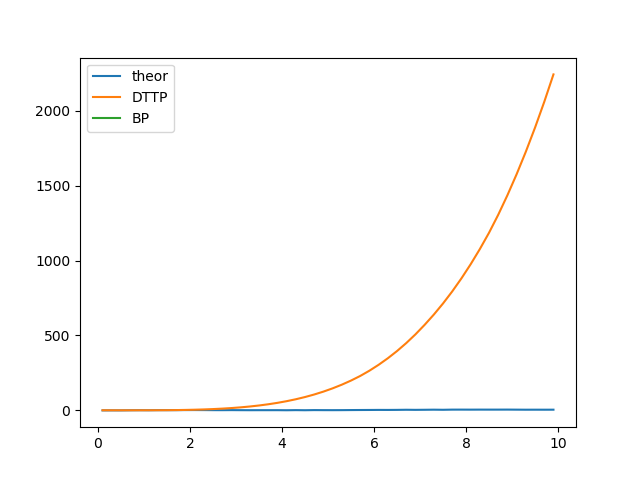
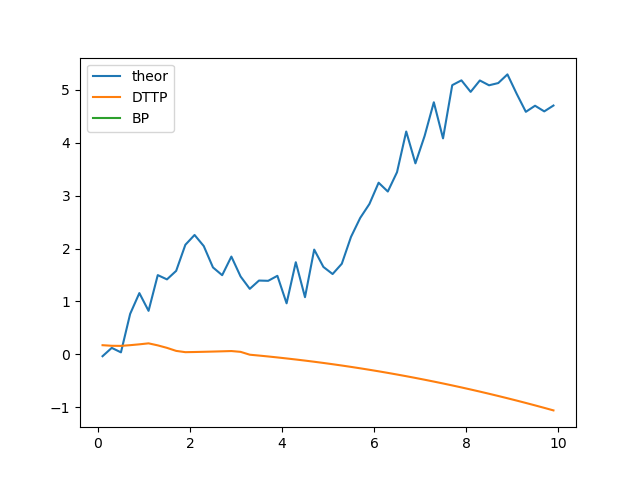
update

diff --git a/code/Main.py b/code/Main.py
@@ -6,14 +6,9 @@ from utils import *
 
 
 def main():
-    dim, in_dim, out_dim, hid_dim = 5, 5, 1, 3
+    dim, in_dim, out_dim, hid_dim = 5, 3, 1, 3
 
-    dataset = make_dataset(sigma=0.3)
-    datax = dataset[0]
-    dataset[0] = datax.reshape(-1, 1)**np.arange(0, in_dim)
-    plt.plot(dataset[0][:, 1], dataset[1])
-    plt.savefig("image/dataset.png")
-
+    dataset = make_dataset_distance()
     trainset = [dataset[0][1:-1:2], dataset[1][0:-1:2]]
     testset = [dataset[0][1:-1:2], dataset[1][1:-1:2]]
 
@@ -37,12 +32,15 @@ def main():
         bpnn_pred[i] = pred
     print(f"DTTP : loss {np.sqrt((dttpnn_pred-testset[1])**2).sum()}")
     print(f"BP : loss {np.sqrt((bpnn_pred-testset[1])**2).sum()}")
+
+    """
     plt.figure()
-    plt.plot(testset[0][:, 1], testset[1], label="theor")
-    plt.plot(testset[0][:, 1], dttpnn_pred, label="DTTP")
-    plt.plot(testset[0][:, 1], bpnn_pred, label="BP")
+    plt.plot(testset[0], testset[1], label="theor")
+    plt.plot(testset[0], dttpnn_pred, label="DTTP")
+    plt.plot(testset[0], bpnn_pred, label="BP")
     plt.legend()
     plt.savefig("image/testset.png")
+    """
 
 
 if __name__ == '__main__':

diff --git a/code/utils.py b/code/utils.py
@@ -22,3 +22,11 @@ def make_dataset(sigma=1, seed=1):
     x = np.arange(0, 10.1, 0.1)
     y = np.sin(x) + x / 2 + np.random.normal(0, sigma, x.shape)
     return [x, y]
+
+
+def make_dataset_distance(dim=3, seed=1):
+    # dim次元空間での原点からの距離
+    np.random.seed(seed)
+    x = np.random.randn(500, dim) * 10
+    y = np.sqrt((x**2).sum(axis=1))
+    return [x, y]
